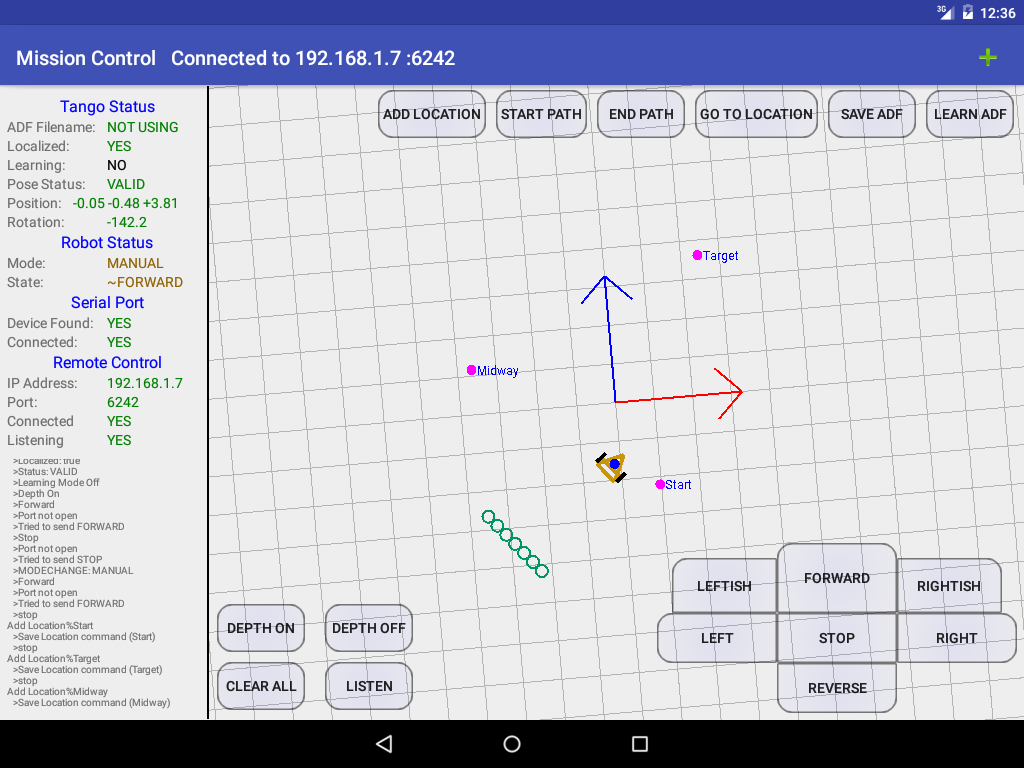
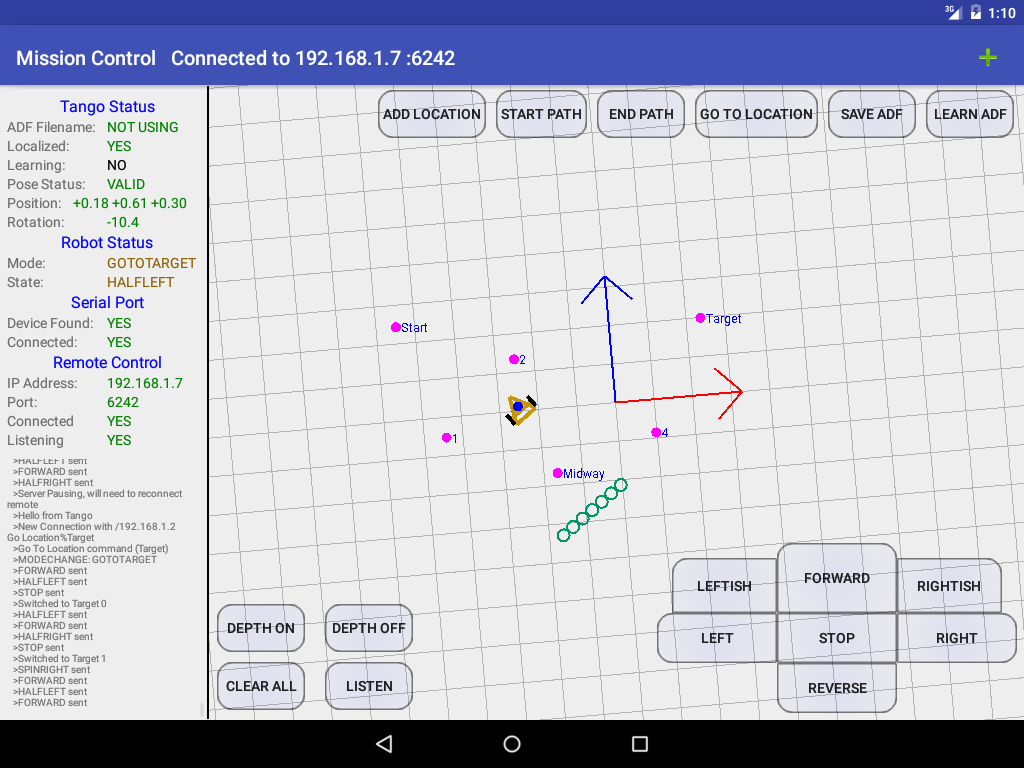
new screenshot

diff --git a/app/src/main/java/com/ursaminoralpha/littlerobot/Robot.java b/app/src/main/java/com/ursaminoralpha/littlerobot/Robot.java
@@ -514,7 +514,7 @@ public class Robot{
         //output an info message
         if(n>0){
             mMainAct.dump(c + " sent");
-            //mMainAct.setStatusRobotState(mMovingState+"");
+            mMainAct.setStatusRobotState(mMovingState+"");
             if (c == Commands.FORWARD || c == Commands.STOP || c == Commands.REVERSE
                     || c == Commands.SPINRIGHT || c == Commands.SPINLEFT
                     || c == Commands.HALFRIGHT || c == Commands.HALFLEFT) {
